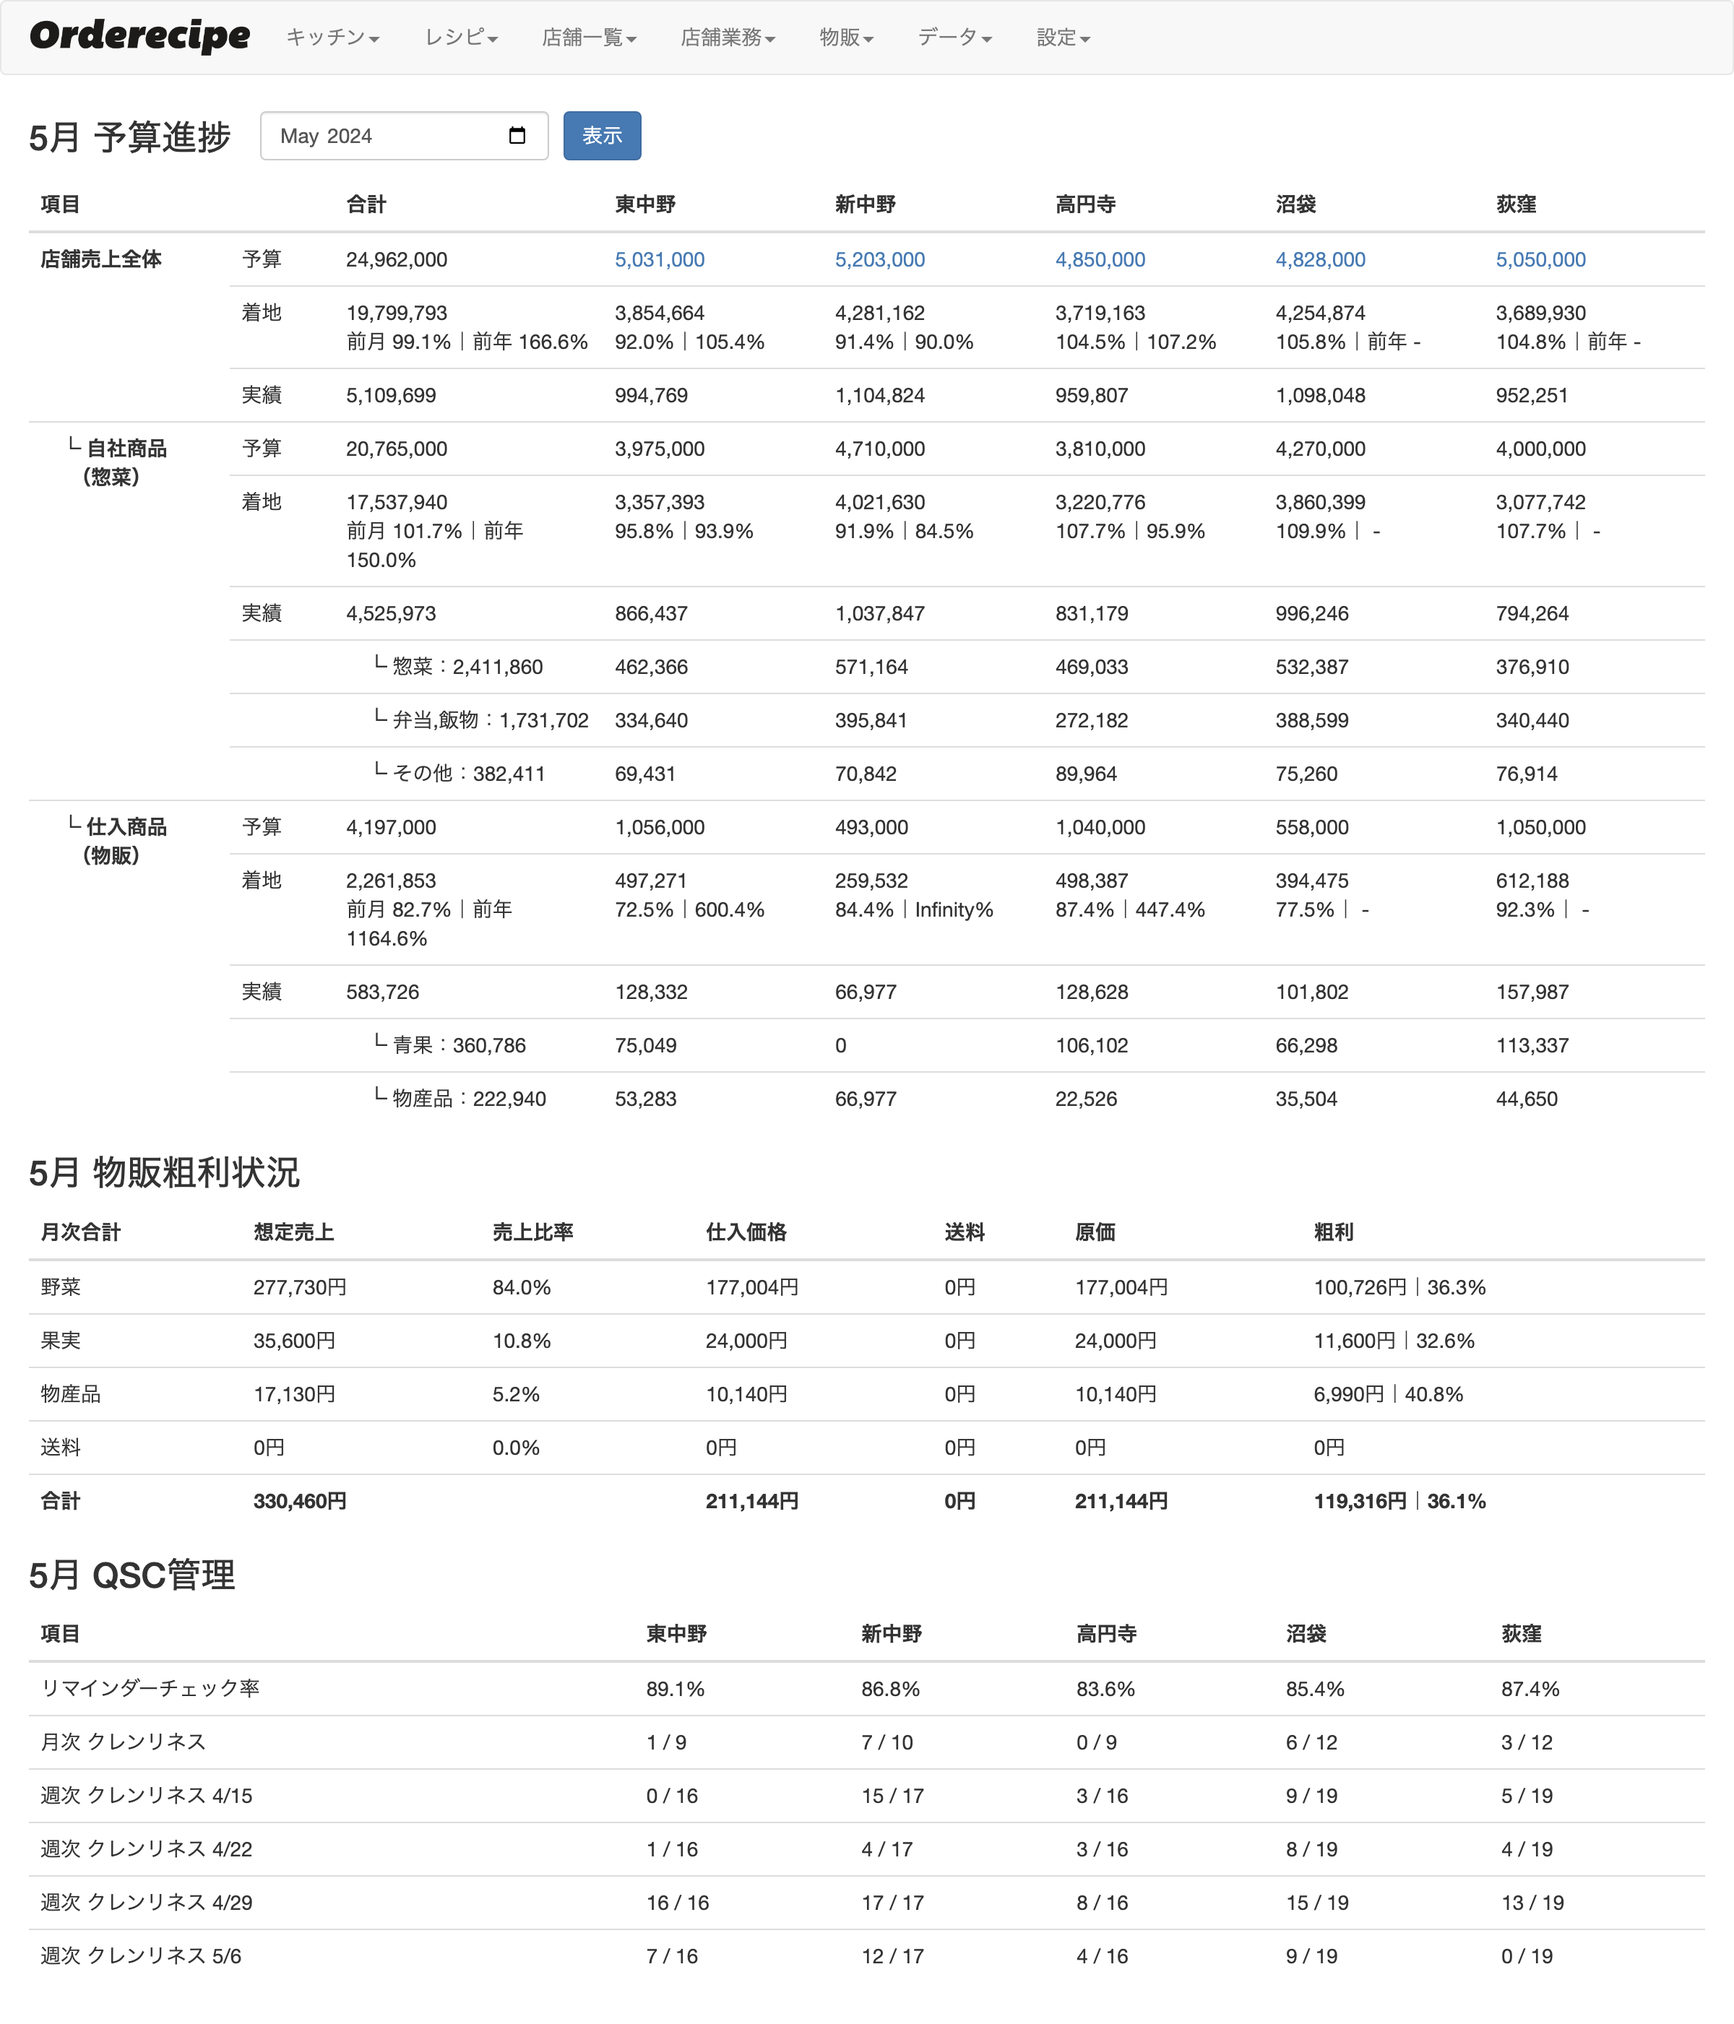
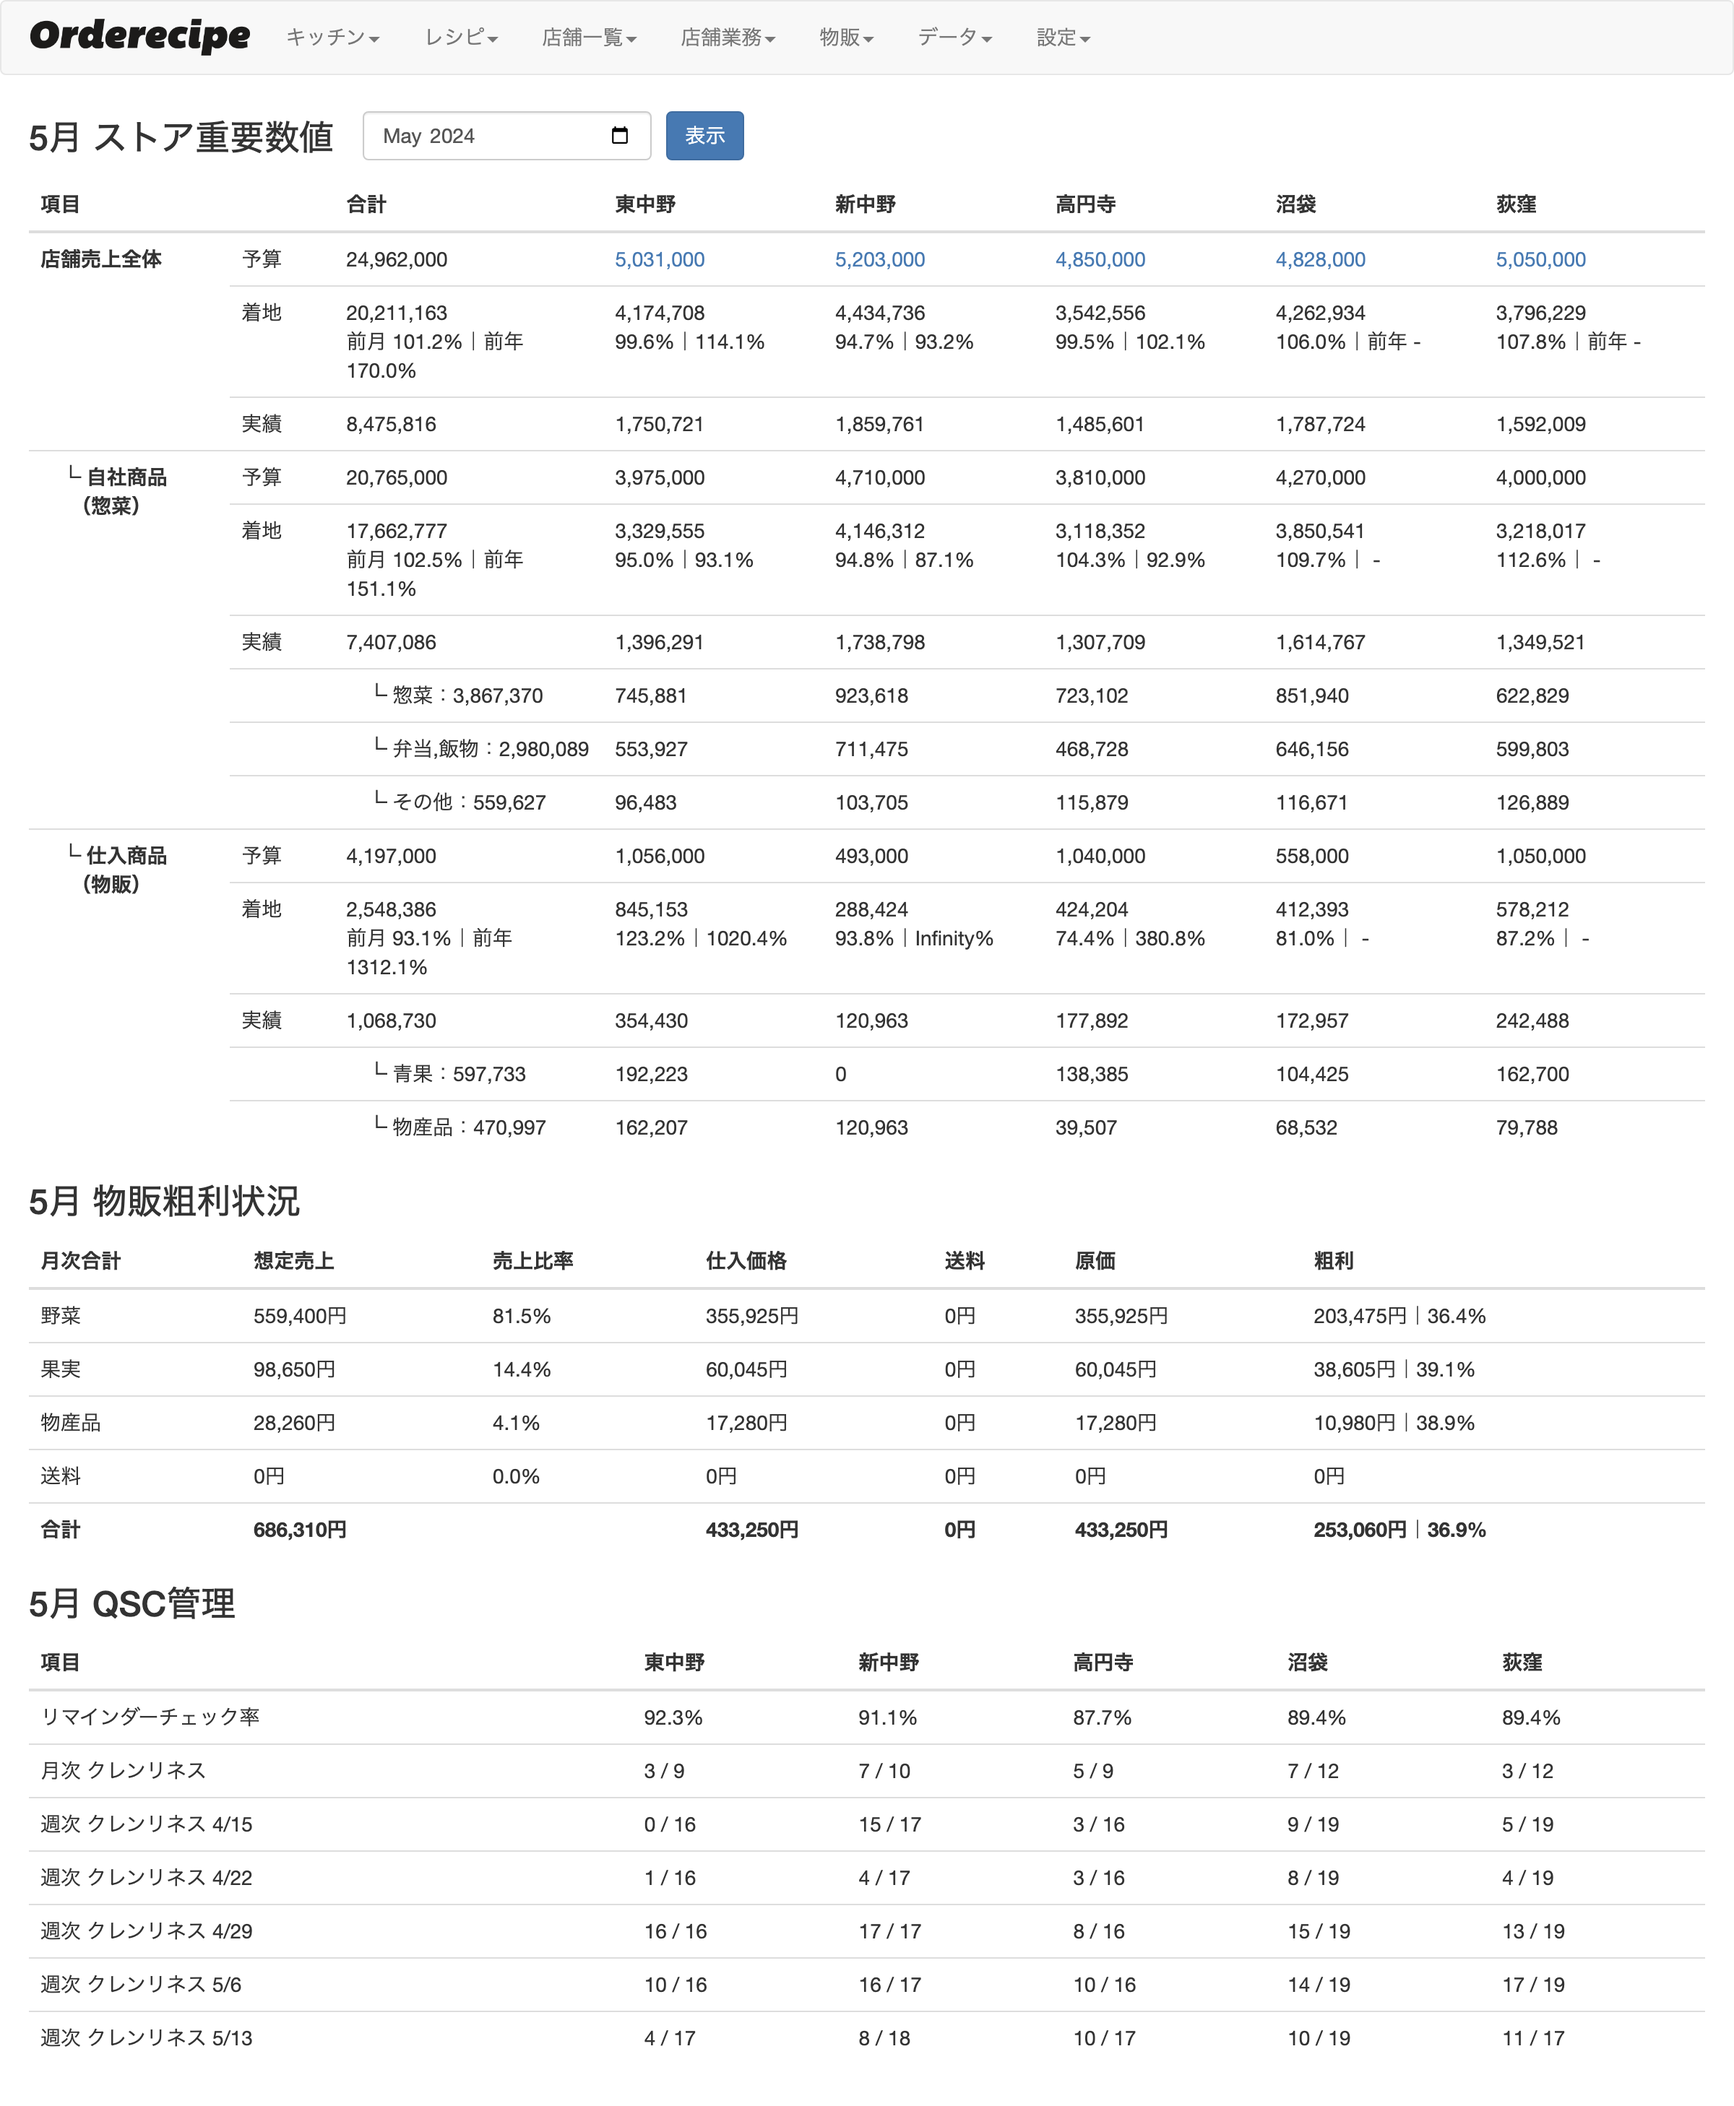
no message

diff --git a/app/models/analysis.rb b/app/models/analysis.rb
@@ -31,7 +31,7 @@ class Analysis < ApplicationRecord
     options.add_argument('--no-sandbox')
     options.add_argument('--disable-dev-shm-usage')
     options.add_argument("--user-agent=#{user_agent}")
-    options.add_argument('--window-size=4200,1800')
+    options.add_argument('--window-size=4700,1800')
     chrome_bin_path = ENV.fetch('GOOGLE_CHROME_BIN', nil)
     chromedriver_path = ENV.fetch('CHROMEDRIVER_PATH', nil)
     options.binary = chrome_bin_path if chrome_bin_path
@@ -85,10 +85,10 @@ class Analysis < ApplicationRecord
     client.put_object(bucket: bucket, key:"daily_report/#{Date.today}.png", body: upload_file)
 
 
-    message = "【#{Date.today}】 売上とその他重要指標の報告\n"+
-    "https://bento-orderecipe.herokuapp.com/analyses/kpi/\n"
-    attachment_images = [{image_url:"https://bejihan-orderecipe.s3.ap-northeast-1.amazonaws.com/daily_report/#{Date.today}_2.png"},{image_url: "https://bejihan-orderecipe.s3.ap-northeast-1.amazonaws.com/daily_report/#{Date.today}.png"}]
-    Slack::Notifier.new('https://hooks.slack.com/services/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', attachments: attachment_images).ping(message)
+    # message = "【#{Date.today}】 売上とその他重要指標の報告\n"+
+    # "https://bento-orderecipe.herokuapp.com/analyses/kpi/\n"
+    # attachment_images = [{image_url:"https://bejihan-orderecipe.s3.ap-northeast-1.amazonaws.com/daily_report/#{Date.today}_2.png"},{image_url: "https://bejihan-orderecipe.s3.ap-northeast-1.amazonaws.com/daily_report/#{Date.today}.png"}]
+    # Slack::Notifier.new('https://hooks.slack.com/services/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', attachments: attachment_images).ping(message)
   end
 
 end

diff --git a/app/controllers/analyses_controller.rb b/app/controllers/analyses_controller.rb
@@ -336,8 +336,11 @@ class AnalysesController < AdminController
       @category_sum[category]["arari_sum"] = arari
       @category_sum[category]["arari_rate"] = (arari/estimated_sales.to_f*100).round(1) if estimated_sales > 0
     end
-
-
+    @sales_reports = Hash.new { |h,k| h[k] = Hash.new(&h.default_proc) }
+    SalesReport.where(date:@dates).each do |sr|
+      @sales_reports[sr.date][sr.store_id][:opot] = sr.one_pair_one_talk
+      @sales_reports[sr.date][sr.store_id][:tasting] = sr.tasting_number
+    end
   end
   def bumon_sales
     @to = Date.today

diff --git a/app/controllers/reminders_controller.rb b/app/controllers/reminders_controller.rb
@@ -27,6 +27,7 @@ class RemindersController < AdminController
     @store = Store.find(params[:store_id])
     @reminders = @store.reminders.where(category:0,action_date:@date).order(:action_time)
     @reminders = @reminders.where(status:params[:status]) if params[:status].present?
+    @reminders = @reminders.where(important_flag:true) if params[:important].present?
     @reminder = Reminder.new(store_id:params[:store_id],action_date:params[:date])
   end
 
